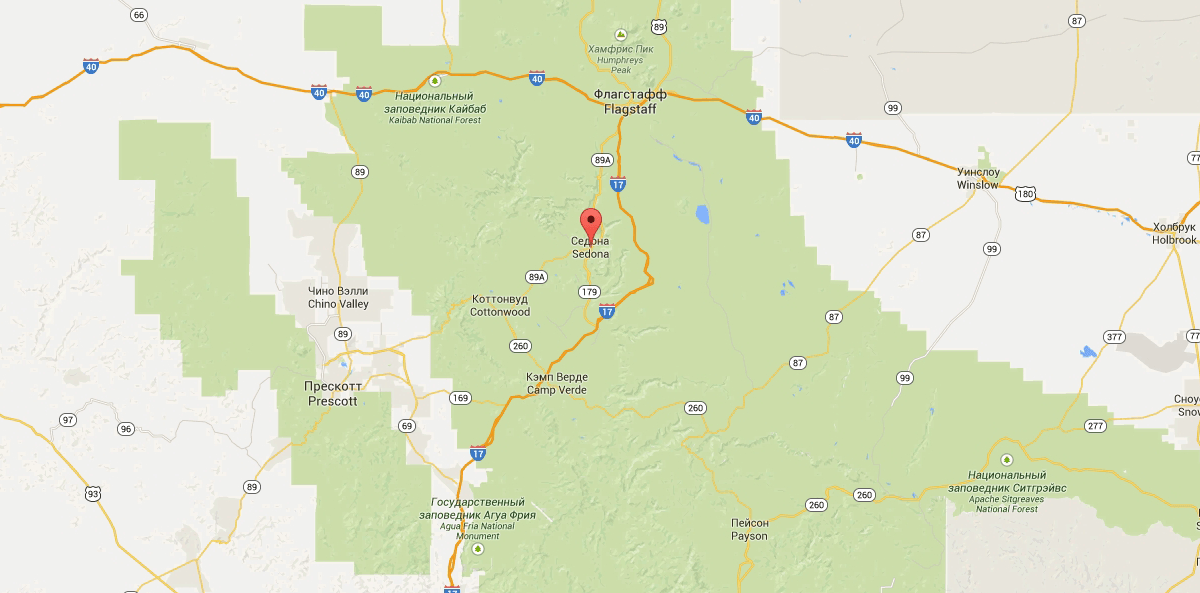
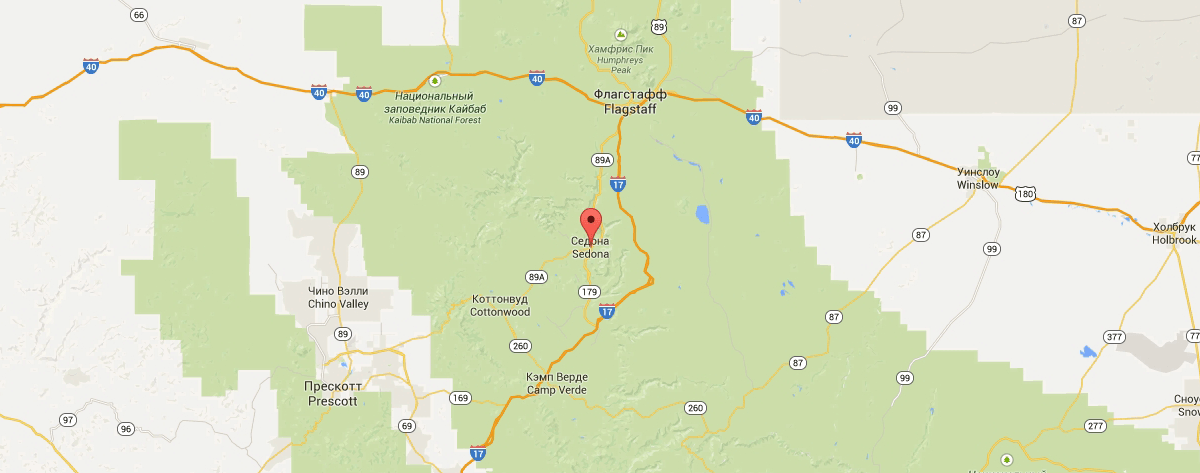
вариант 4.0

diff --git a/css/style.css b/css/style.css
@@ -31,11 +31,13 @@ h1 {
 	font-weight: 700;
 	font-size: 21px;
 	line-height: 26px;
+	margin: 0;
 }
 
 h2{
 	color: #000000;
 	font-weight: 700;
+	margin: 0;
 }
 
 .heading-reason {
@@ -50,13 +52,11 @@ h2{
 .nav-list{
 	list-style-type: none;
 	padding: 0;
-	background-color: yellow;
 }
 
 .nav-item{
 	float: left;
 	width: 240px;
-	background-color: red;
 }
 
 .nav-item:nth-child(3){
@@ -64,12 +64,7 @@ h2{
 }
 
 .main-header{
-	background-color: blue;
 	position: relative;
-}
-
-.main-navigation{
-	background-color: green;
 }
 
 .logo{
@@ -81,21 +76,15 @@ h2{
 
 .promo{
 	width: 1200px;
-	background-color: green;
 }
 
-.causes{
-	float: left;
-	background-color: pink;
-	width: 1200px;
-}
 
 .reason-line{
 	background-color: #81b3d2;
 	color: #ffffff;
 }
 
-.reason-block{
+.reason-block, .reason-block1{
 	float: left;
 	width: 400px;
 }
@@ -116,56 +105,14 @@ h2{
 	top: 50%;
 }
 
-.reason-row{
-	background-color: purple;
-}
-
-.reason-block1{
-	float: left;
-	width: 400px;
-}
-
-.hotel-search{
-	float: left;
-	background-color: lightblue;
-	width: 1200px;
-}
-
-.map{
-	float: left;
-	width: 1200px;
-	height: 473px;
-	position: relative;
-	overflow: hidden;
-}
-
-.map-img{
-	width: 100%;
-	height: auto;
-	transform: translateY(-50%);
-	position: absolute;
-	top: 50%;
-}
-
 .form{
-	float: left;
 	background-color: lightgreen;
 	margin-left: 368px;
 	margin-right: 368px;
 	width: 568px;
 }
 
-.footer-hashtag{
-	float: left;
-	width: 400px;
-}
-
-.footer-social{
-	float: left;
-	width: 400px;
-}
-
-.footer-copyright{
+.footer-hashtag, .footer-social, .footer-copyright{
 	float: left;
 	width: 400px;
 }

diff --git a/index.html b/index.html
@@ -31,7 +31,7 @@
 					</a>
 				</div>
 			</header>
-			<main class="clearfix">
+			<main>
 				<div class="promo">
 					<img src="img/index-img.png" alt="Баннер">
 				</div>
@@ -106,7 +106,7 @@
 					<button type="button">Поиск гостиницы в Седоне</button>
 				</div>
 				<div class="map">
-					<img src="img/map.png" width="1200" height="593" alt="Карта" class="map-img">
+					<img src="img/map.png" width="1200" height="473" alt="Карта" class="map-img">
 				</div>
 				<div class="form">
 					<form action="#" method="post" id="search">
